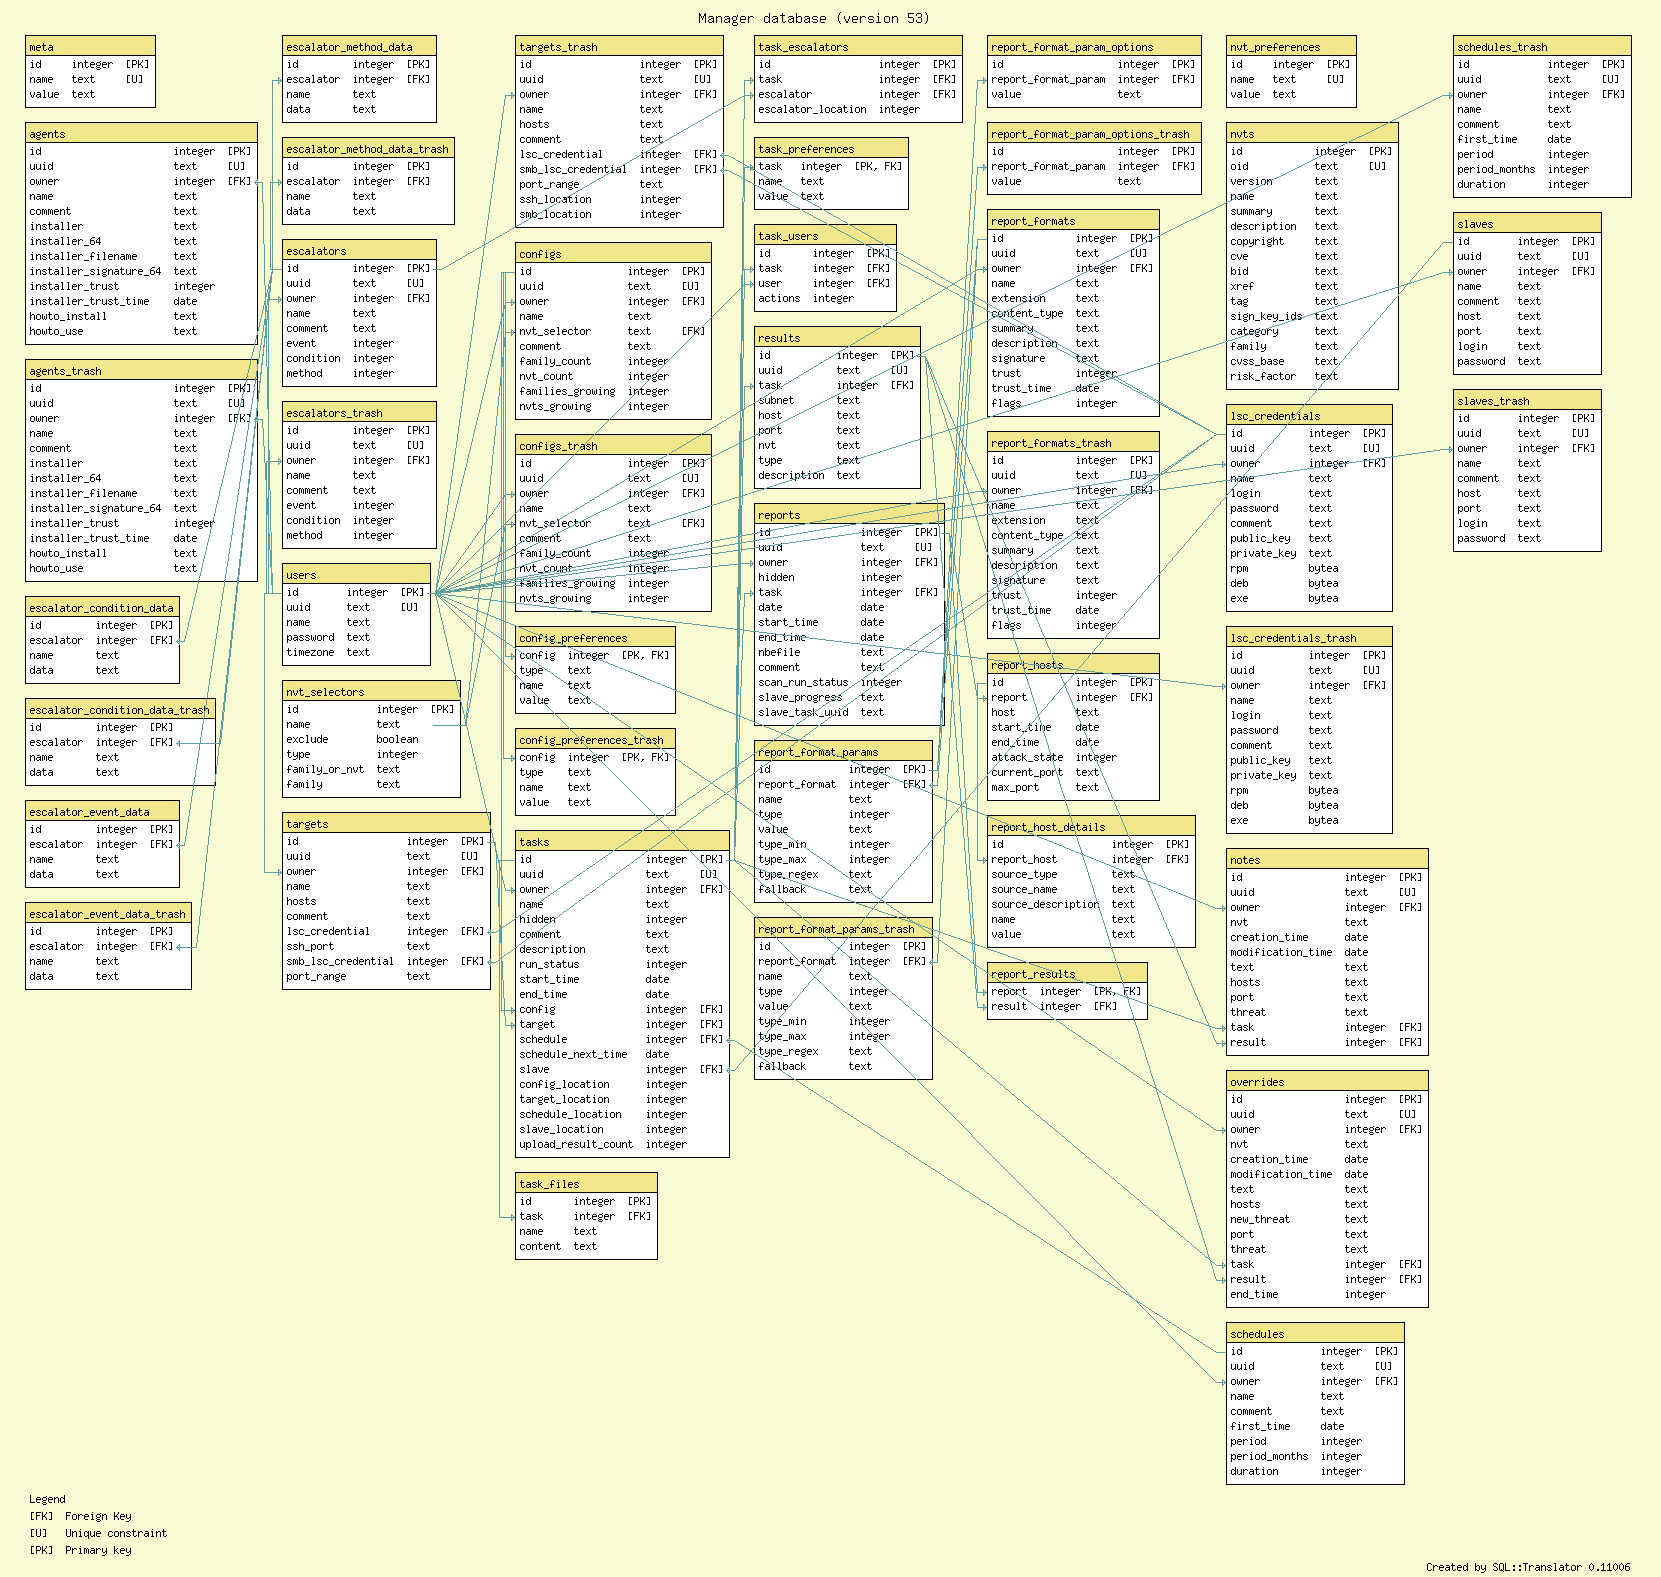
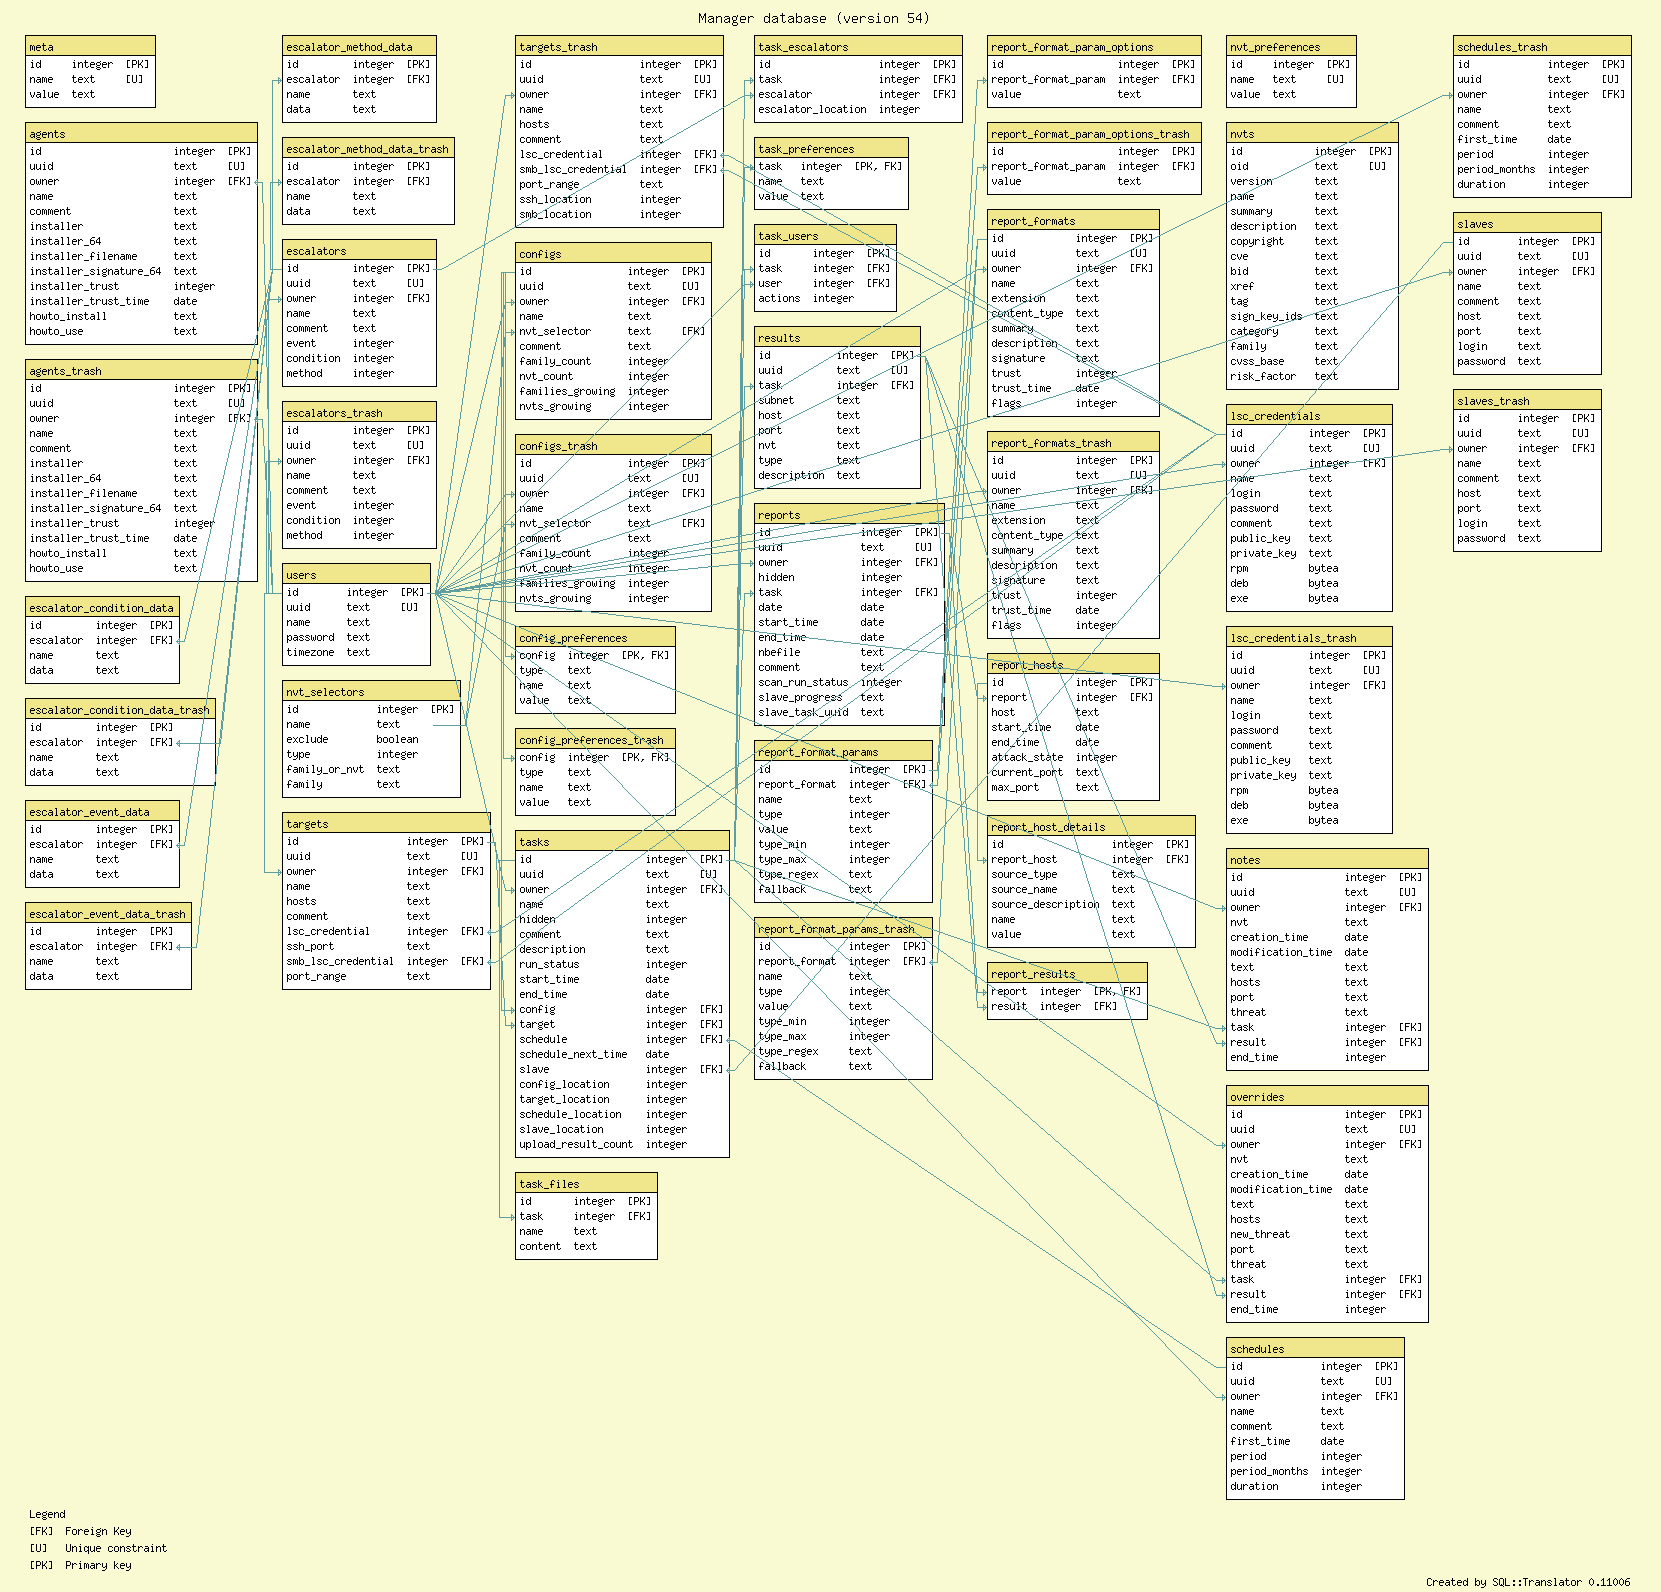
Add note end times.  Hence increase database version to 54.  Add 	database migration from version 53 to 54.
* CMakeLists.txt (OPENVASMD_DATABASE_VERSION): Increase to 54.

	* src/manage_sql.c (create_tables): Add end_time to notes.
	(migrate_53_to_54): New functions.
	(database_migrators): Add migrate_53_to_54.
	(modify_note): Add active param.
	(NOTE_COLUMNS): Add active fields.
	(note_iterator_end_time, note_iterator_active): New functions.

	* src/manage.h: Update headers accordingly.

	* src/omp.c (modify_note_data_t, modify_note_data_reset)
	(client_state_t): Add active.
	(omp_xml_handle_start_element, omp_xml_handle_end_element)
	(omp_xml_handle_text): Add ACTIVE to MODIFY_NOTE and CREATE_NOTE.
	(buffer_notes_xml): Add ACTIVE and END_TIME to NOTE.

	* doc/db_postgres.sql (notes): Add column end_time.

	* doc/db.png: Update from source.

git-svn-id: svn+ssh://scm.wald.intevation.org/openvas/trunk/openvas-manager@12174 423fd1db-d629-0410-8442-d21db03e70f4

Changed region(s): [[0.0, 0.0, 0.8597, 0.9321], [0.8597, 0.0311, 0.9825, 0.3729]]

diff --git a/src/manage_sql.c b/src/manage_sql.c
@@ -1430,7 +1430,7 @@ create_tables ()
   sql ("CREATE TABLE IF NOT EXISTS lsc_credentials (id INTEGER PRIMARY KEY, uuid UNIQUE, owner INTEGER, name, login, password, comment, public_key TEXT, private_key TEXT, rpm TEXT, deb TEXT, exe TEXT);");
   sql ("CREATE TABLE IF NOT EXISTS lsc_credentials_trash (id INTEGER PRIMARY KEY, uuid UNIQUE, owner INTEGER, name, login, password, comment, public_key TEXT, private_key TEXT, rpm TEXT, deb TEXT, exe TEXT);");
   sql ("CREATE TABLE IF NOT EXISTS meta (id INTEGER PRIMARY KEY, name UNIQUE, value);");
-  sql ("CREATE TABLE IF NOT EXISTS notes (id INTEGER PRIMARY KEY, uuid UNIQUE, owner INTEGER, nvt, creation_time, modification_time, text, hosts, port, threat, task INTEGER, result INTEGER);");
+  sql ("CREATE TABLE IF NOT EXISTS notes (id INTEGER PRIMARY KEY, uuid UNIQUE, owner INTEGER, nvt, creation_time, modification_time, text, hosts, port, threat, task INTEGER, result INTEGER, end_time);");
   sql ("CREATE TABLE IF NOT EXISTS nvt_preferences (id INTEGER PRIMARY KEY, name, value);");
   /* nvt_selectors types: 0 all, 1 family, 2 NVT (NVT_SELECTOR_TYPE_* in manage.h). */
   sql ("CREATE TABLE IF NOT EXISTS nvt_selectors (id INTEGER PRIMARY KEY, name, exclude INTEGER, type INTEGER, family_or_nvt, family);");
@@ -5541,6 +5541,40 @@ migrate_52_to_53 ()
 }
 
 /**
+ * @brief Migrate the database from version 53 to version 54.
+ *
+ * @return 0 success, -1 error.
+ */
+static int
+migrate_53_to_54 ()
+{
+  sql ("BEGIN EXCLUSIVE;");
+
+  /* Ensure that the database is currently version 53. */
+
+  if (manage_db_version () != 53)
+    {
+      sql ("ROLLBACK;");
+      return -1;
+    }
+
+  /* Update the database. */
+
+  /* The notes table got a end_time column. */
+
+  sql ("ALTER TABLE notes ADD column end_time;");
+  sql ("UPDATE notes SET end_time = 0;");
+
+  /* Set the database version to 54. */
+
+  set_db_version (54);
+
+  sql ("COMMIT;");
+
+  return 0;
+}
+
+/**
  * @brief Array of database version migrators.
  */
 static migrator_t database_migrators[]
@@ -5598,6 +5632,7 @@ static migrator_t database_migrators[]
     {51, migrate_50_to_51},
     {52, migrate_51_to_52},
     {53, migrate_52_to_53},
+    {54, migrate_53_to_54},
     /* End marker. */
     {-1, NULL}};
 
@@ -28288,6 +28323,8 @@ note_uuid (note_t note, char ** id)
  * @brief Modify a note.
  *
  * @param[in]  note        Note.
+ * @param[in]  active      NULL or -2 leave as is, -1 on, 0 off, n on for n
+ *                         days.
  * @param[in]  text        Note text.
  * @param[in]  hosts       Hosts to apply note to, NULL for any host.
  * @param[in]  port        Port to apply note to, NULL for any port.
@@ -28295,12 +28332,12 @@ note_uuid (note_t note, char ** id)
  * @param[in]  task        Task to apply note to, 0 for any task.
  * @param[in]  result      Result to apply note to, 0 for any result.
  *
- * @return 0 success, -1 error.
+ * @return 0 success, -1 error, 1 syntax error in active.
  */
 int
-modify_note (note_t note, const char* text, const char* hosts,
-             const char* port, const char* threat, task_t task,
-             result_t result)
+modify_note (note_t note, const char *active, const char* text,
+             const char* hosts, const char* port, const char* threat,
+             task_t task, result_t result)
 {
   gchar *quoted_text, *quoted_hosts, *quoted_port, *quoted_threat;
 
@@ -28321,23 +28358,58 @@ modify_note (note_t note, const char* text, const char* hosts,
   quoted_threat = sql_insert ((threat && strlen (threat))
                                 ? threat_message_type (threat) : NULL);
 
-  sql ("UPDATE notes SET"
-       " modification_time = %i,"
-       " text = %s,"
-       " hosts = %s,"
-       " port = %s,"
-       " threat = %s,"
-       " task = %llu,"
-       " result = %llu"
-       " WHERE ROWID = %llu;",
-       time (NULL),
-       quoted_text,
-       quoted_hosts,
-       quoted_port,
-       quoted_threat,
-       task,
-       result,
-       note);
+  if ((active == NULL) || (strcmp (active, "-2") == 0))
+    sql ("UPDATE notes SET"
+         " modification_time = %i,"
+         " text = %s,"
+         " hosts = %s,"
+         " port = %s,"
+         " threat = %s,"
+         " task = %llu,"
+         " result = %llu"
+         " WHERE ROWID = %llu;",
+         time (NULL),
+         quoted_text,
+         quoted_hosts,
+         quoted_port,
+         quoted_threat,
+         task,
+         result,
+         note);
+  else
+    {
+      const char *point;
+      point = active;
+      if (strcmp (point, "-1"))
+        {
+          while (*point && isdigit (*point)) point++;
+          if (*point)
+            return 1;
+        }
+      sql ("UPDATE notes SET"
+           " end_time = %i,"
+           " modification_time = %i,"
+           " text = %s,"
+           " hosts = %s,"
+           " port = %s,"
+           " threat = %s,"
+           " task = %llu,"
+           " result = %llu"
+           " WHERE ROWID = %llu;",
+           (strcmp (active, "-1")
+             ? (strcmp (active, "0")
+                 ? (time (NULL) + atoi (active) * 60 * 60 * 24)
+                 : 1)
+             : 0),
+           time (NULL),
+           quoted_text,
+           quoted_hosts,
+           quoted_port,
+           quoted_threat,
+           task,
+           result,
+           note);
+    }
 
   g_free (quoted_text);
   g_free (quoted_hosts);
@@ -28353,7 +28425,9 @@ modify_note (note_t note, const char* text, const char* hosts,
 #define NOTE_COLUMNS "notes.ROWID, notes.uuid, notes.nvt,"                 \
                      " notes.creation_time, notes.modification_time,"      \
                      " notes.text, notes.hosts, notes.port, notes.threat," \
-                     " notes.task, notes.result"
+                     " notes.task, notes.result, notes.end_time,"          \
+                     " (notes.end_time = 0)"                               \
+                     "  OR (notes.end_time >= now ())"
 
 /**
  * @brief Initialise a note iterator.
@@ -28599,6 +28673,39 @@ note_iterator_result (iterator_t* iterator)
 {
   if (iterator->done) return 0;
   return (result_t) sqlite3_column_int64 (iterator->stmt, 10);
+}
+
+/**
+ * @brief Get the end time from an note iterator.
+ *
+ * @param[in]  iterator  Iterator.
+ *
+ * @return Time until which note applies.  0 for always.  1 means the
+ *         note has been explicitly turned off.
+ */
+time_t
+note_iterator_end_time (iterator_t* iterator)
+{
+  int ret;
+  if (iterator->done) return -1;
+  ret = (time_t) sqlite3_column_int (iterator->stmt, 12);
+  return ret;
+}
+
+/**
+ * @brief Get the active status from an note iterator.
+ *
+ * @param[in]  iterator  Iterator.
+ *
+ * @return 1 if active, else 0.
+ */
+int
+note_iterator_active (iterator_t* iterator)
+{
+  int ret;
+  if (iterator->done) return -1;
+  ret = sqlite3_column_int (iterator->stmt, 13);
+  return ret;
 }
 
 /**

diff --git a/src/omp.c b/src/omp.c
@@ -2264,6 +2264,7 @@ modify_task_data_reset (modify_task_data_t *data)
  */
 typedef struct
 {
+  char *active;       ///< Whether the override is active.
   char *hosts;        ///< Hosts to which to limit override.
   char *note_id;      ///< ID of note to modify.
   char *nvt_oid;      ///< NVT to which to limit override.
@@ -2282,6 +2283,7 @@ typedef struct
 static void
 modify_note_data_reset (modify_note_data_t *data)
 {
+  free (data->active);
   free (data->hosts);
   free (data->note_id);
   free (data->nvt_oid);
@@ -3319,6 +3321,7 @@ typedef enum
   CLIENT_MODIFY_CONFIG_NVT_SELECTION_FAMILY,
   CLIENT_MODIFY_CONFIG_NVT_SELECTION_NVT,
   CLIENT_MODIFY_NOTE,
+  CLIENT_MODIFY_NOTE_ACTIVE,
   CLIENT_MODIFY_NOTE_HOSTS,
   CLIENT_MODIFY_NOTE_PORT,
   CLIENT_MODIFY_NOTE_RESULT,
@@ -7513,7 +7516,9 @@ omp_xml_handle_start_element (/*@unused@*/ GMarkupParseContext* context,
         break;
 
       case CLIENT_MODIFY_NOTE:
-        if (strcasecmp ("HOSTS", element_name) == 0)
+        if (strcasecmp ("ACTIVE", element_name) == 0)
+          set_client_state (CLIENT_MODIFY_NOTE_ACTIVE);
+        else if (strcasecmp ("HOSTS", element_name) == 0)
           set_client_state (CLIENT_MODIFY_NOTE_HOSTS);
         else if (strcasecmp ("PORT", element_name) == 0)
           set_client_state (CLIENT_MODIFY_NOTE_PORT);
@@ -7547,7 +7552,7 @@ omp_xml_handle_start_element (/*@unused@*/ GMarkupParseContext* context,
           set_client_state (CLIENT_MODIFY_NOTE_THREAT);
         else
           {
-            if (send_element_error_to_client ("MODIFY_note", element_name,
+            if (send_element_error_to_client ("MODIFY_NOTE", element_name,
                                               write_to_client,
                                               write_to_client_data))
               {
@@ -8134,12 +8139,14 @@ buffer_notes_xml (GString *buffer, iterator_t *notes, int include_notes_details,
                                     "<nvt oid=\"%s\">"
                                     "<name>%s</name>"
                                     "</nvt>"
+                                    "<active>%i</active>"
                                     "<text excerpt=\"%i\">%s</text>"
                                     "<orphan>%i</orphan>"
                                     "</note>",
                                     note_iterator_uuid (notes),
                                     note_iterator_nvt_oid (notes),
                                     note_iterator_nvt_name (notes),
+                                    note_iterator_active (notes),
                                     strlen (excerpt) < strlen (text),
                                     excerpt,
                                     ((note_iterator_task (notes)
@@ -8154,6 +8161,7 @@ buffer_notes_xml (GString *buffer, iterator_t *notes, int include_notes_details,
           time_t creation_time, mod_time;
           gchar *creation, *mod;
           int trash_task;
+          time_t end_time;
 
           if (uuid_task)
             {
@@ -8170,6 +8178,7 @@ buffer_notes_xml (GString *buffer, iterator_t *notes, int include_notes_details,
           creation = g_strdup (iso_time (&creation_time));
           mod_time = note_iterator_modification_time (notes);
           mod = g_strdup (iso_time (&mod_time));
+          end_time = note_iterator_end_time (notes);
 
           buffer_xml_append_printf
            (buffer,
@@ -8177,6 +8186,8 @@ buffer_notes_xml (GString *buffer, iterator_t *notes, int include_notes_details,
             "<nvt oid=\"%s\"><name>%s</name></nvt>"
             "<creation_time>%s</creation_time>"
             "<modification_time>%s</modification_time>"
+            "<active>%i</active>"
+            "<end_time>%s</end_time>"
             "<text>%s</text>"
             "<hosts>%s</hosts>"
             "<port>%s</port>"
@@ -8188,6 +8199,8 @@ buffer_notes_xml (GString *buffer, iterator_t *notes, int include_notes_details,
             note_iterator_nvt_name (notes),
             creation,
             mod,
+            note_iterator_active (notes),
+            end_time > 1 ? iso_time (&end_time) : "",
             note_iterator_text (notes),
             note_iterator_hosts (notes)
              ? note_iterator_hosts (notes) : "",
@@ -14638,6 +14651,7 @@ omp_xml_handle_end_element (/*@unused@*/ GMarkupParseContext* context,
                 }
             }
           else switch (modify_note (note,
+                                    modify_note_data->active,
                                     modify_note_data->text,
                                     modify_note_data->hosts,
                                     modify_note_data->port,
@@ -14662,6 +14676,10 @@ omp_xml_handle_end_element (/*@unused@*/ GMarkupParseContext* context,
           set_client_state (CLIENT_AUTHENTIC);
           break;
         }
+      case CLIENT_MODIFY_NOTE_ACTIVE:
+        assert (strcasecmp ("ACTIVE", element_name) == 0);
+        set_client_state (CLIENT_MODIFY_NOTE);
+        break;
       case CLIENT_MODIFY_NOTE_HOSTS:
         assert (strcasecmp ("HOSTS", element_name) == 0);
         set_client_state (CLIENT_MODIFY_NOTE);
@@ -18277,6 +18295,9 @@ omp_xml_handle_text (/*@unused@*/ GMarkupParseContext* context,
                              text_len);
         break;
 
+      case CLIENT_MODIFY_NOTE_ACTIVE:
+        openvas_append_text (&modify_note_data->active, text, text_len);
+        break;
       case CLIENT_MODIFY_NOTE_HOSTS:
         openvas_append_text (&modify_note_data->hosts, text, text_len);
         break;

diff --git a/src/manage.h b/src/manage.h
@@ -1453,7 +1453,7 @@ note_uuid (note_t, char **);
 
 int
 modify_note (note_t, const char*, const char*, const char*, const char*,
-             task_t, result_t);
+             const char*, task_t, result_t);
 
 void
 init_note_iterator (iterator_t*, note_t, nvt_t, result_t, task_t, int,
@@ -1488,6 +1488,12 @@ note_iterator_task (iterator_t*);
 
 result_t
 note_iterator_result (iterator_t*);
+
+time_t
+note_iterator_end_time (iterator_t*);
+
+int
+note_iterator_active (iterator_t*);
 
 const char*
 note_iterator_nvt_name (iterator_t *);
